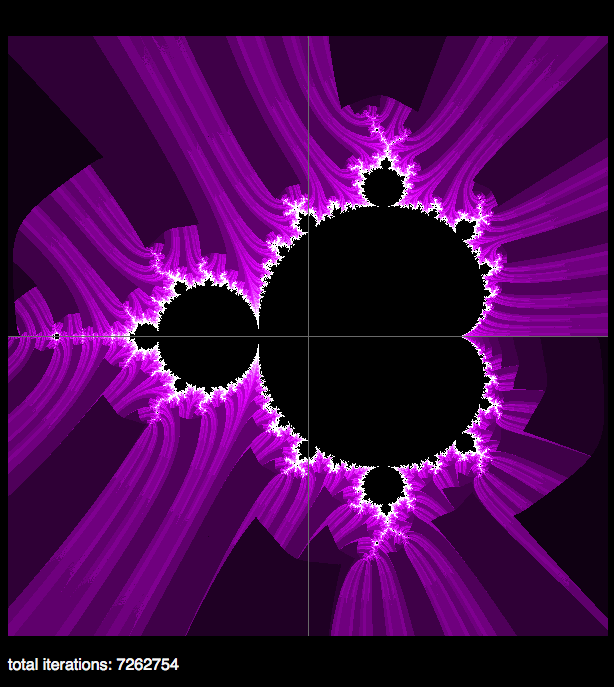
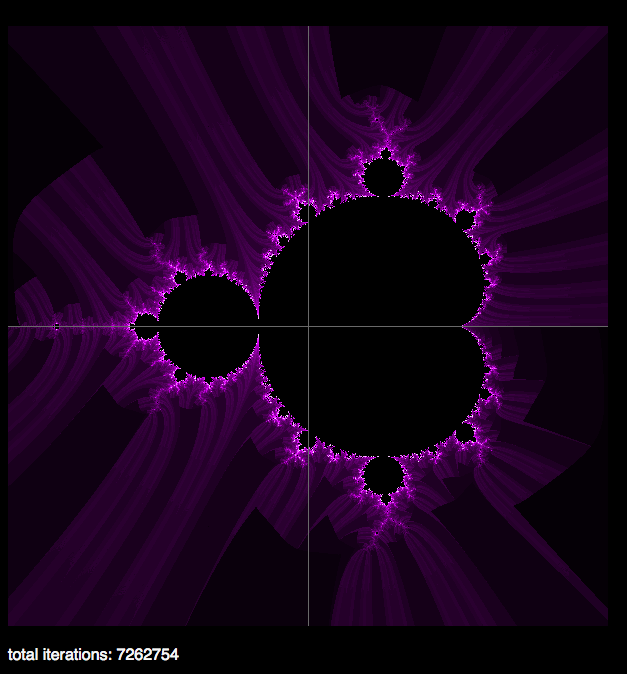
update shading

diff --git a/app.js b/app.js
@@ -45,7 +45,7 @@ function isMandelbrotNum(x, y) {
 
     if (z.absoluteValue() > 2) {
       numIterations += i;
-      return i/maxIterations * 300;
+      return i/maxIterations * 100;
     }
   }
 
